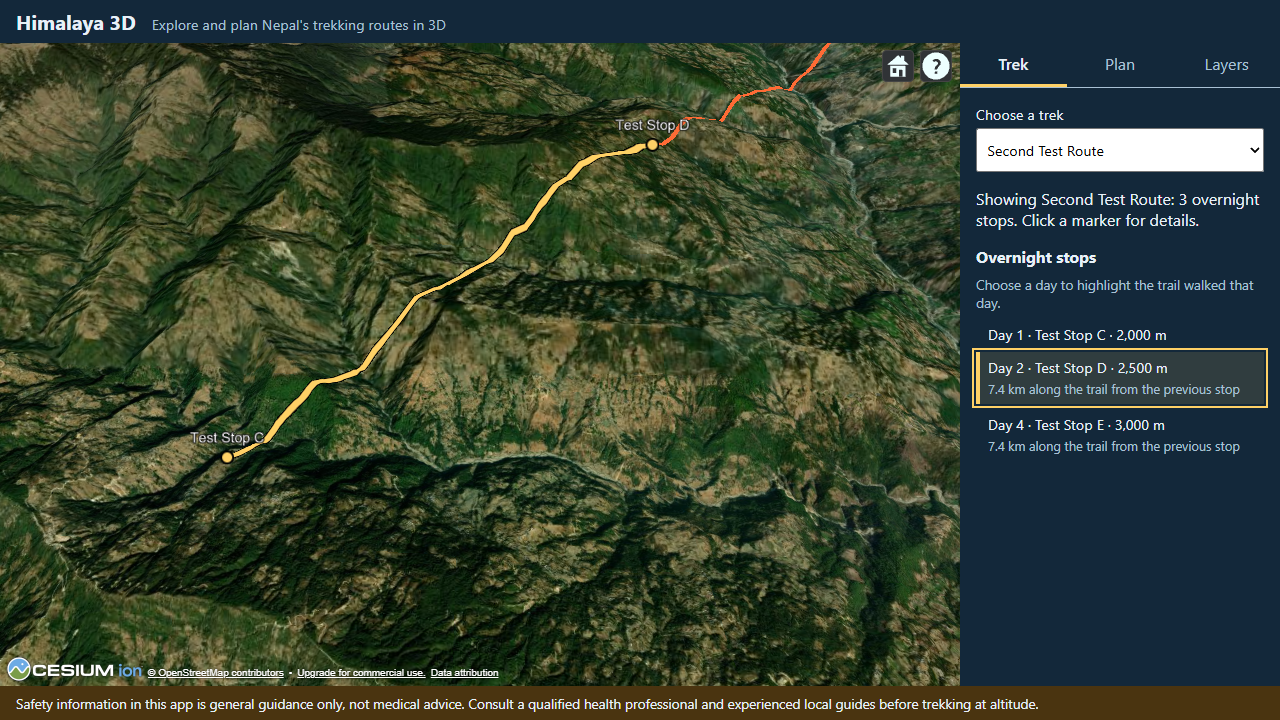
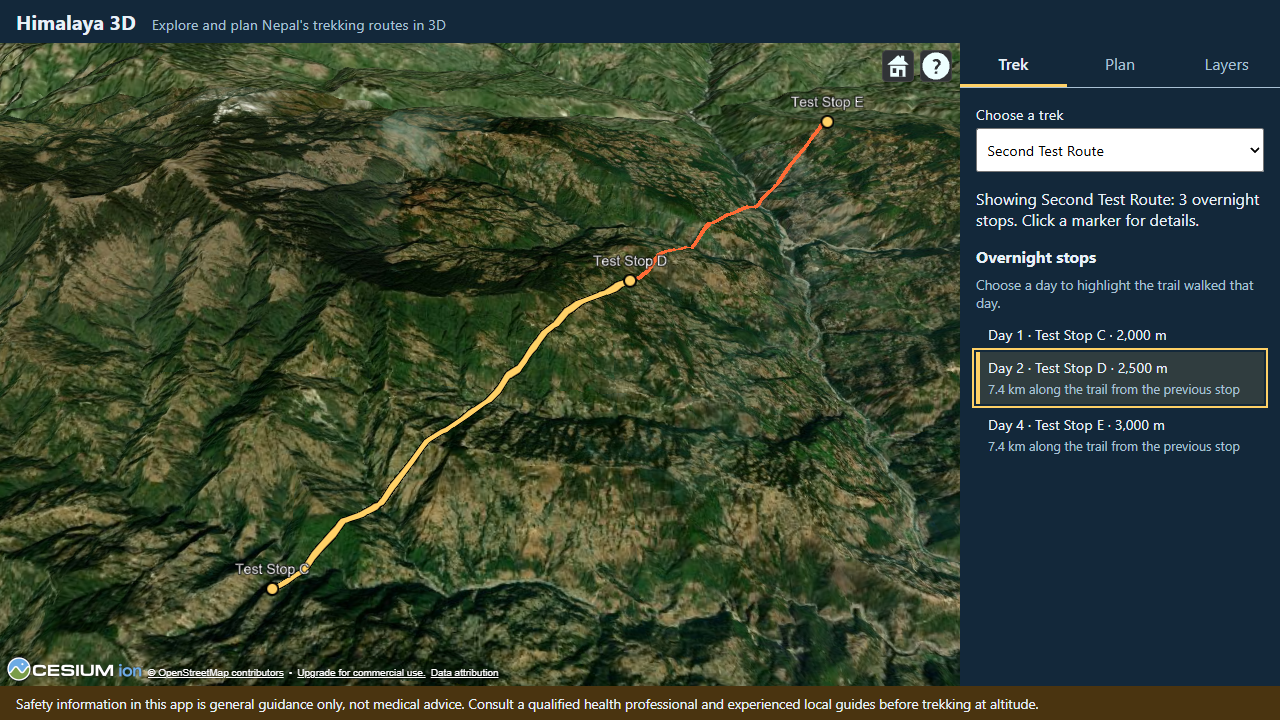
fix(3d-engine): apply review — camera aims at stop altitude, safer loading
- StageLayer: aim at the higher stop's cited altitude (Stage.topAltitudeM), at
  least 4 km away. Measured with World Terrain on a temporary 1.4 km stage near
  4,900 m: sea-level aim left the camera 13 m above the ground facing a hillside;
  now about 3 km above the terrain with the stage in view.
- useRoutes: run routeStages inside try, so a file that breaks the stage maths
  shows "could not load" instead of blanking the page and the disclaimer.
- App: stage choice stored as {trek id, end-stop id}; no button for 0 m stages;
  hint linked to the buttons with aria-describedby.
- stages.ts: plain if-clamps; ties documented.
- Tests: cos(latitude) at 60 N, separate L-shape stage lengths, 0 m stage,
  top altitude, one-point line throws; e2e reaches the day button with Tab.
- Docs: ADR-027, PROGRESS, Sparsh's notes (camera height, Q33-34), AI_USAGE.
  Stage screenshot re-captured.

Refs #49

diff --git a/app/src/lib/geo/stages.test.ts b/app/src/lib/geo/stages.test.ts
@@ -53,6 +53,22 @@ describe('nearestPointOnLine', () => {
     expect(result.offsetM).toBeCloseTo(STEP_M / 10, 1);
   });
 
+  it('shrinks longitude by cos(latitude): a 45° diagonal at 60 °N', () => {
+    // At 60 °N, cos = 0.5, so 0.02° of longitude = 0.01° of latitude = 1,111.95 m: the segment
+    // (0, 60) → (0.02, 60.01) is a 45° diagonal on the flat map. P = (0.02, 60) sits below B, so
+    // its foot is halfway: t = 0.5. Haversine length 1,572.41 m → along = 786.21 m, offset 786.27 m.
+    // (Without the cos, t would be 0.8; with cos of 60 taken in degrees by mistake, 0.78.)
+    const result = nearestPointOnLine(
+      [
+        [0, 60],
+        [0.02, 60.01],
+      ],
+      [0.02, 60],
+    );
+    expect(result.distanceM).toBeCloseTo(786.21, 1);
+    expect(result.offsetM).toBeCloseTo(786.27, 1);
+  });
+
   it('survives a zero-length segment (the same point twice)', () => {
     const line: LonLat[] = [
       [0, 0],
@@ -99,7 +115,12 @@ describe('sliceLine', () => {
 });
 
 describe('splitIntoStages', () => {
-  const stop = (id: string, day: number, position: LonLat): StageStop => ({ id, day, position });
+  const stop = (id: string, day: number, position: LonLat, altitudeM = 1000): StageStop => ({
+    id,
+    day,
+    position,
+    altitudeM,
+  });
 
   it('N stops give N − 1 stages, each walked on the arrival day of its end stop', () => {
     // Given out of order on purpose: the function sorts by day. Day 3 is a rest day.
@@ -120,14 +141,40 @@ describe('splitIntoStages', () => {
     ]);
   });
 
-  it('stage lengths add up to the trail length when the first and last stops are at the ends', () => {
+  it('gives each stage its own length, adding up to the trail length', () => {
+    // b lands 1.2 × STEP_M along the L (the worked example above), c at the end (2 × STEP_M).
     const stages = splitIntoStages(L_SHAPE, [
       stop('a', 1, [0, 0]),
       stop('b', 2, [0.009, 0.002]),
       stop('c', 3, [0.01, 0.01]),
     ]);
+    expect(stages[0].lengthM).toBeCloseTo(1.2 * STEP_M, 1); // a → b = 1,334.34 m
+    expect(stages[1].lengthM).toBeCloseTo(0.8 * STEP_M, 1); // b → c = 889.56 m
     const total = stages.reduce((sum, s) => sum + s.lengthM, 0);
     expect(total).toBeCloseTo(2 * STEP_M, 1);
+  });
+
+  it('remembers the higher of the two stops altitudes (where the camera aims)', () => {
+    const stages = splitIntoStages(STRAIGHT, [
+      stop('low', 1, [0, 0], 2800),
+      stop('high', 2, [0.01, 0], 3440),
+      stop('down', 3, [0.02, 0], 3000),
+    ]);
+    expect(stages.map((s) => s.topAltitudeM)).toEqual([3440, 3440]);
+  });
+
+  it('two stops at the same place on the trail give a 0 m stage (TrekPanel shows no button)', () => {
+    // Both stops lie past the end of the line, so both land on its last point.
+    const stages = splitIntoStages(STRAIGHT, [stop('a', 1, [0.021, 0]), stop('b', 2, [0.022, 0])]);
+    expect(stages[0].lengthM).toBe(0);
+    expect(stages[0].path).toEqual([
+      [0.02, 0],
+      [0.02, 0],
+    ]);
+  });
+
+  it('throws on a line with fewer than 2 points, so useRoutes can report a bad file', () => {
+    expect(() => splitIntoStages([[0, 0]], [stop('a', 1, [0, 0])])).toThrow(RangeError);
   });
 
   it('an out-and-back trek walks the trail backwards on the way down', () => {

diff --git a/app/src/lib/geo/stages.ts b/app/src/lib/geo/stages.ts
@@ -46,6 +46,11 @@ export interface PointOnLine {
  * smallest offset wins, and the distance along the line is cumulative[i] + t × (segment length).
  * A flat map is accurate enough because trail segments are short (metres to a few hundred metres).
  *
+ * Ties: if two segments are exactly as near, the EARLIER one wins (the test is `<`, not `<=`).
+ * A stop near a place the trail passes twice (a switchback, or the way back of an out-and-back
+ * trek) can therefore land on the wrong pass. The pipeline refuses loops and branches and keeps
+ * stops within 500 m of the trail, which makes this rare; check real routes by eye (ADR-027).
+ *
  * `cumulative` (from cumulativeDistancesM) can be passed in when it was already computed.
  */
 export function nearestPointOnLine(
@@ -66,9 +71,12 @@ export function nearestPointOnLine(
     const px = (point[0] - lonA) * xScale;
     const py = (point[1] - latA) * METRES_PER_DEGREE;
 
+    // t = how far along A→B the foot of the perpendicular from P is (0 = at A, 1 = at B).
     const lengthSquared = bx * bx + by * by;
-    // Two identical points make a zero-length segment: its only point is A (t = 0).
-    const t = lengthSquared > 0 ? Math.min(1, Math.max(0, (px * bx + py * by) / lengthSquared)) : 0;
+    let t = 0; // two identical points make a zero-length segment: its only point is A
+    if (lengthSquared > 0) t = (px * bx + py * by) / lengthSquared;
+    if (t < 0) t = 0; // the foot is before A: the nearest point of the SEGMENT is A
+    if (t > 1) t = 1; // the foot is past B: the nearest point is B
     const offsetM = Math.hypot(px - t * bx, py - t * by);
 
     if (offsetM < best.offsetM) {
@@ -108,6 +116,8 @@ export interface StageStop {
   /** The day the trekker arrives (the first stop is day 1). */
   day: number;
   position: LonLat;
+  /** The stop's cited altitude in metres (from the route file). */
+  altitudeM: number;
 }
 
 /** The part of the trail walked on one day: from the previous stop to `toStopId`. */
@@ -120,6 +130,12 @@ export interface Stage {
   lengthM: number;
   /** The trail between the two stops, starting at the previous stop. */
   path: LonLat[];
+  /**
+   * The higher of the two stops' altitudes, in metres. The trail itself carries no heights, so
+   * StageLayer aims the camera at this height; aiming at sea level leaves the camera on the
+   * ground, facing a hillside, on a short stage high up.
+   */
+  topAltitudeM: number;
 }
 
 /**
@@ -142,6 +158,7 @@ export function splitIntoStages(line: readonly LonLat[], stops: readonly StageSt
       day: inDayOrder[k].day,
       lengthM: Math.abs(toM - fromM),
       path: sliceLine(line, fromM, toM, cumulative),
+      topAltitudeM: Math.max(inDayOrder[k - 1].altitudeM, inDayOrder[k].altitudeM),
     });
   }
   return stages;

diff --git a/app/src/ui/App.tsx b/app/src/ui/App.tsx
@@ -30,12 +30,25 @@ export function App() {
   const [drawnStops, setDrawnStops] = useState(0);
 
   // Daily stages (#49). Computed from the route file, never stored separately ("derived state"),
-  // and only recomputed when the route changes (useMemo). The selected stage is remembered by the
-  // id of the stop it ends at; TrekPanel clears it when another trek is chosen.
+  // and only recomputed when the route changes (useMemo).
   const currentRoute = routes.current;
   const stages = useMemo(() => (currentRoute ? routeStages(currentRoute) : []), [currentRoute]);
-  const [selectedStageStopId, setSelectedStageStopId] = useState<string | null>(null);
+
+  // The highlighted stage is remembered as "which trek, which end stop". Different treks can
+  // share stop ids (two treks may both stop at the same village), so the trek id is checked too:
+  // a choice made on one trek can never highlight a stage on another. (TrekPanel also clears the
+  // choice when the user picks another trek, so it does not come back on return.)
+  const [stageChoice, setStageChoice] = useState<{ routeId: string; toStopId: string } | null>(
+    null,
+  );
+  const selectedStageStopId =
+    stageChoice && stageChoice.routeId === routes.selectedId ? stageChoice.toStopId : null;
   const selectedStage = stages.find((stage) => stage.toStopId === selectedStageStopId) ?? null;
+
+  /** Called by TrekPanel: highlight the stage ending at `toStopId` (null = none). */
+  function selectStage(toStopId: string | null) {
+    setStageChoice(toStopId && routes.selectedId ? { routeId: routes.selectedId, toStopId } : null);
+  }
   // Which stage StageLayer has really drawn (read by the e2e test, like drawnStops).
   const [drawnStage, setDrawnStage] = useState<string | null>(null);
 
@@ -50,7 +63,7 @@ export function App() {
           drawnStops={drawnStops}
           stages={stages}
           selectedStageStopId={selectedStageStopId}
-          onSelectStage={setSelectedStageStopId}
+          onSelectStage={selectStage}
           drawnStage={drawnStage}
         />
       ),

diff --git a/app/src/features/routes/StageLayer.tsx b/app/src/features/routes/StageLayer.tsx
@@ -5,6 +5,14 @@
  * The stage is one extra polyline, wider than the trail, yellow with a black edge, clamped to the
  * ground like the trail. The camera then flies to it.
  *
+ * Camera height: the trail has no heights, so points built from it sit at sea level. Aiming at
+ * sea level on a short stage high in the mountains puts the camera's target below the terrain
+ * (code review found this). Measured with World Terrain on a 1.4 km test stage near 4,900 m: the
+ * camera ended 13 m above the ground, pressed against the hillside, and the stage was not visible.
+ * So the camera aims at the higher of the two stops' cited altitudes (Stage.topAltitudeM) and
+ * stays at least 4 km away at 45°, about 2.8 km above that stop; on the same test stage it ended
+ * about 3 km above the terrain under it, with the whole stage in view.
+ *
  * Drawing order: Cesium draws data sources in the order of viewer.dataSources, later ones on top.
  * (A polyline's zIndex only orders lines INSIDE one data source, so it cannot help here; a first
  * version used it and the trail covered the highlight.) So the stage gets its own data source,
@@ -69,14 +77,18 @@ export function StageLayer({ stage, onDrawn }: StageLayerProps) {
       onDrawn?.(stage.toStopId);
     });
 
-    // Look at the stage from the south, 45° down, from three times its radius (at least 3 km).
-    const sphere = BoundingSphere.fromPoints(positions);
+    // Look at the stage from the south, 45° down, from three times its radius (at least 4 km),
+    // aiming at the higher stop's altitude instead of sea level (see the header comment).
+    const aimPoints = Cartesian3.fromDegreesArrayHeights(
+      stage.path.flatMap(([lon, lat]) => [lon, lat, stage.topAltitudeM]),
+    );
+    const sphere = BoundingSphere.fromPoints(aimPoints);
     viewer.camera.flyToBoundingSphere(sphere, {
       duration: 1.5,
       offset: new HeadingPitchRange(
         0,
         CesiumMath.toRadians(-45),
-        Math.max(sphere.radius * 3, 3000),
+        Math.max(sphere.radius * 3, 4000),
       ),
     });
 

diff --git a/app/src/features/routes/TrekPanel.tsx b/app/src/features/routes/TrekPanel.tsx
@@ -84,7 +84,11 @@ export function TrekPanel({
       {stops.length > 0 && (
         <>
           <h2 className="panel-heading">{t('stops.heading', language)}</h2>
-          {stages.length > 0 && <p className="hint">{t('stops.hint', language)}</p>}
+          {stages.length > 0 && (
+            <p className="hint" id="stage-hint">
+              {t('stops.hint', language)}
+            </p>
+          )}
           {/* An ordered list, but without the 1. 2. 3. markers: they would clash with the day
               numbers ("3. Day 4 …"). Screen readers still announce it as a list. */}
           <ol className="stop-list" data-testid="stop-list" data-drawn-stage={drawnStage ?? ''}>
@@ -95,8 +99,10 @@ export function TrekPanel({
                 altitude: stop.properties.altitude_m.toLocaleString('en'),
               });
               const stage = stages.find((s) => s.toStopId === stop.properties.id);
-              if (!stage) {
-                // The first stop: the trek starts here, no stage is walked to reach it.
+              // No button for the first stop (the trek starts there, no stage leads to it), nor
+              // for a stop at the same place on the trail as the one before (a 0 m stage: there
+              // would be nothing to highlight).
+              if (!stage || stage.lengthM === 0) {
                 return (
                   <li key={stop.properties.id}>
                     <span className="stop-text">{text}</span>
@@ -110,6 +116,7 @@ export function TrekPanel({
                     type="button"
                     className="stop-button"
                     aria-pressed={pressed}
+                    aria-describedby="stage-hint"
                     onClick={() => onSelectStage(pressed ? null : stage.toStopId)}
                   >
                     <span className="stop-text">{text}</span>

diff --git a/app/src/features/routes/useRoutes.ts b/app/src/features/routes/useRoutes.ts
@@ -11,7 +11,7 @@
  */
 import { useCallback, useEffect, useRef, useState } from 'react';
 import { fetchRoute, fetchRouteIndex, type RouteSummary } from './loadRoutes';
-import { routeDrawing } from './routeEntities';
+import { routeDrawing, routeStages } from './routeEntities';
 import type { RouteFile } from './types';
 
 export type RoutesStatus = 'loading' | 'ready' | 'error';
@@ -64,8 +64,11 @@ export function useRoutes(): RoutesState {
       try {
         const file = await fetchRoute(id);
         // Check the file's shape HERE, inside try: if it were only discovered while rendering,
-        // the error would blank the whole page (including the medical disclaimer).
+        // the error would blank the whole page (including the medical disclaimer). Both helpers
+        // that App and the layers call while rendering are run once here, so a file that would
+        // make either of them throw is reported as "could not load" instead.
         routeDrawing(file, 'en');
+        routeStages(file);
         cache.current.set(id, file); // a good file is worth keeping even if it arrived late
         if (latestRequest.current !== request) return; // a newer select() call has happened
         setCurrent(file);

diff --git a/app/src/features/routes/routeEntities.test.ts b/app/src/features/routes/routeEntities.test.ts
@@ -121,7 +121,12 @@ describe('routeStages', () => {
     };
     const stages = routeStages(withSecondStop);
     expect(stages).toHaveLength(1);
-    expect(stages[0]).toMatchObject({ fromStopId: 'stop-a', toStopId: 'stop-b', day: 3 });
+    expect(stages[0]).toMatchObject({
+      fromStopId: 'stop-a',
+      toStopId: 'stop-b',
+      day: 3,
+      topAltitudeM: 3440, // both synthetic stops are at 3,440 m
+    });
     expect(stages[0].path).toEqual([
       [85.0, 28.0],
       [85.2, 28.1],
@@ -130,5 +135,12 @@ describe('routeStages', () => {
 
   it('a route with one stop has no stages', () => {
     expect(routeStages(testRoute)).toEqual([]);
+  });
+
+  it('throws for a trail with only one point (useRoutes then shows "could not load")', () => {
+    const broken = structuredClone(testRoute);
+    const route = broken.features[0];
+    if (route.geometry.type === 'LineString') route.geometry.coordinates = [[85.0, 28.0]];
+    expect(() => routeStages(broken)).toThrow(RangeError);
   });
 });

diff --git a/app/e2e/stages.spec.ts b/app/e2e/stages.spec.ts
@@ -37,8 +37,10 @@ test('pressing a day highlights its stage; pressing again or changing trek remov
   await expect(day4).toContainText('7.4 km along the trail from the previous stop');
   await expect(day2).toHaveAttribute('aria-pressed', 'false');
 
-  // Keyboard: Tab to the button and press Enter.
-  await day2.focus();
+  // Keyboard only: from the trek selector, Tab reaches the first day button; Enter presses it.
+  await page.getByLabel('Choose a trek').focus();
+  await page.keyboard.press('Tab');
+  await expect(day2).toBeFocused();
   await page.keyboard.press('Enter');
   await expect(day2).toHaveAttribute('aria-pressed', 'true');
   await expect(list).toHaveAttribute('data-drawn-stage', 'stop-d', { timeout: 30_000 });

diff --git a/app/src/features/routes/routeEntities.ts b/app/src/features/routes/routeEntities.ts
@@ -94,6 +94,7 @@ export function routeStages(file: RouteFile): Stage[] {
       id: stop.properties.id,
       day: stop.properties.day,
       position: stop.geometry.coordinates,
+      altitudeM: stop.properties.altitude_m,
     })),
   );
 }

diff --git a/docs/viva/sparsh-gorkhali.md b/docs/viva/sparsh-gorkhali.md
@@ -276,6 +276,12 @@ source, then the camera flies to it. *Drawing order lesson:* the first version u
 the stage's data source is raised to the top, and `RouteLayer` lowers the trail's to the bottom
 every time it redraws (ADR-027).
 
+**Camera height (found in code review).** The trail has no heights, so the sphere the camera
+flies to was at sea level. On a short stage high up (1.4 km near 4,900 m, measured with World
+Terrain) the camera ended 13 m above the ground, facing a hillside. Now it aims at the higher of
+the two stops' cited altitudes and stays at least 4 km away at 45°: height ≈ altitude + 4,000 ×
+sin 45° ≈ altitude + 2,828 m. On the same test stage it ended about 3 km above the terrain.
+
 **Limits.** Map distance along the simplified line: real walking is longer (slopes, small
 zig-zags removed by Douglas–Peucker). If the trail passes the same place twice, a stop can land
 on the wrong pass. The "jump to day N" of the flythrough (#20) will reuse these stages.
@@ -367,6 +373,12 @@ on the wrong pass. The "jump to day N" of the flythrough (#20) will reuse these 
 32. **Why was the highlight hidden at first, and how was it fixed?** — `zIndex` only orders
     lines within one data source; the trail's data source was drawn later. Fixed by raising the
     stage's data source to the top and keeping the trail's at the bottom.
+33. **Where does the camera fly for a stage, and why not just use the trail points?** — The trail
+    points have no height (sea level). Aiming there on a high, short stage leaves the camera on
+    the ground. It aims at the higher stop's cited altitude, 4 km away at 45° or more.
+34. **A route file is broken. Why does the page not go blank?** — `useRoutes` runs both
+    `routeDrawing` and `routeStages` on the file inside `try` before using it; if either throws,
+    the status says "could not load" and the disclaimer stays.
 
 ## Prove you understand it (do these by hand, no AI)
 
@@ -412,7 +424,9 @@ on the wrong pass. The "jump to day N" of the flythrough (#20) will reuse these 
 - **Issue #49 (2026-11-22):** Claude Code wrote `stages.ts` (+ test), `StageLayer.tsx`, the
   day buttons, `stages.spec.ts`, ADR-027 and this section. The first highlight was drawn under
   the trail; this was found by looking at the screenshot and fixed. A unit test caught a
-  duplicated end point in `sliceLine`, also fixed.
+  duplicated end point in `sliceLine`, also fixed. A code-reviewer subagent then found the
+  sea-level camera aim and a crash path for malformed files; both fixed, the camera fix measured
+  with World Terrain on a temporary test stage.
 - **What you must still do:** read the four engine files, run the tests and the app yourself,
   and do exercises 2, 5–8 and 11–13 by hand.
 
@@ -428,4 +442,4 @@ on the wrong pass. The "jump to day N" of the flythrough (#20) will reuse these 
 - 2026-11-21 — M3 #15: route drawing walkthrough (ViewerContext, data source, popups, async
   safety), Q23–26, exercises 9–10.
 - 2026-11-22 — M3 #49: daily stages walkthrough (projection worked example, stages, slicing,
-  drawing order), Q27–32, exercises 11–13, AI use.
+  drawing order), Q27–32, exercises 11–13, AI use. After code review: camera height, Q33–34.

diff --git a/docs/AI_USAGE.md b/docs/AI_USAGE.md
@@ -17,7 +17,7 @@ that ran on a team member's laptop with access only to this project folder.
 | 2026-11-21 | M4 | For issue #18, wrote the haversine / cumulative-distance / binary-search module and its tests; fixed what code review found (worked-example rounding, weak tests, NaN) and ran a mutation check. | Sparsh works the haversine example by hand and does exercises 7–8. |
 | 2026-11-21 | M3 | For issue #15, wrote run-time route loading, the route index generator, ViewerContext, RouteLayer with popups, `{name}` placeholders in `t()`, unit and e2e tests (with a synthetic fixture route), ADR-025 and the notes; opened issue #49 for daily stages. | Sparsh and Unique read the new modules; Dipson reviews the new strings. |
 | 2026-11-22 | M3 | For issue #16, wrote the trek selector, stop list, ARIA side-panel tabs, route caching, new strings (Nepali machine-drafted), unit and e2e tests (second synthetic fixture), ADR-026 and Dipson's notes; ran a mutation check and a code review. | Dipson reads the new files, uses the panel with the keyboard only, reviews the Nepali strings and does exercises 8–10 by hand. |
-| 2026-11-22 | M3 | For issue #49, wrote the stage-splitting maths and its tests, the stage highlight layer, the day buttons in the Trek tab, an e2e test, ADR-027 and Sparsh's notes; found from the screenshot that the first highlight was drawn under the trail and fixed it; ran a mutation check and a code review. | Sparsh works the projection example by hand, reads `stages.ts` and `StageLayer.tsx`, and does exercises 11–13. |
+| 2026-11-22 | M3 | For issue #49, wrote the stage-splitting maths and its tests, the stage highlight layer, the day buttons in the Trek tab, an e2e test, ADR-027 and Sparsh's notes; found from the screenshot that the first highlight was drawn under the trail and fixed it; ran a mutation check and a code review (which found a camera-height bug and a crash path, both fixed). | Sparsh works the projection example by hand, reads `stages.ts` and `StageLayer.tsx`, and does exercises 11–13. |
 
 ## Rules we gave the AI (from CLAUDE.md and our setup prompt)
 

diff --git a/docs/decisions.md b/docs/decisions.md
@@ -386,8 +386,16 @@ and the stops with their arrival day (ADR-017); nothing says where each day star
 - The highlight (`StageLayer`) is its own Cesium data source raised to the top, and `RouteLayer`
   keeps the trail's data source at the bottom. A polyline `zIndex` was tried first, but it only
   orders lines inside one data source, and the trail covered the highlight.
-- In the Trek tab, every stop after the first is a toggle button (`aria-pressed`); choosing
-  another trek clears the highlight.
+- The camera aims at the higher of the two stops' cited altitudes, not at sea level (the trail
+  has no heights), and stays at least 4 km away at 45°. Measured with World Terrain on a 1.4 km
+  test stage near 4,900 m: aiming at sea level left the camera 13 m above the ground facing a
+  hillside; the fix put it about 3 km above the terrain with the stage in view.
+- In the Trek tab, every stop after the first is a toggle button (`aria-pressed`), except a stop
+  at the same place on the trail as the previous one (a 0 m stage). The chosen stage is stored as
+  {trek id, end-stop id}, so it can never highlight a stage on another trek that shares a stop
+  id; choosing another trek also clears it.
+- `useRoutes` runs `routeStages` on every downloaded file inside its `try`, like `routeDrawing`,
+  so a file that would make the stage maths throw shows "could not load" instead of a blank page.
 **Alternatives:** split the trail in the Python pipeline and store one LineString per day (more
 schema, and the app would still need the maths for the flythrough's "jump to day N", #20);
 nearest *vertex* instead of nearest point on a segment (simpler, but a stop between two far-apart
